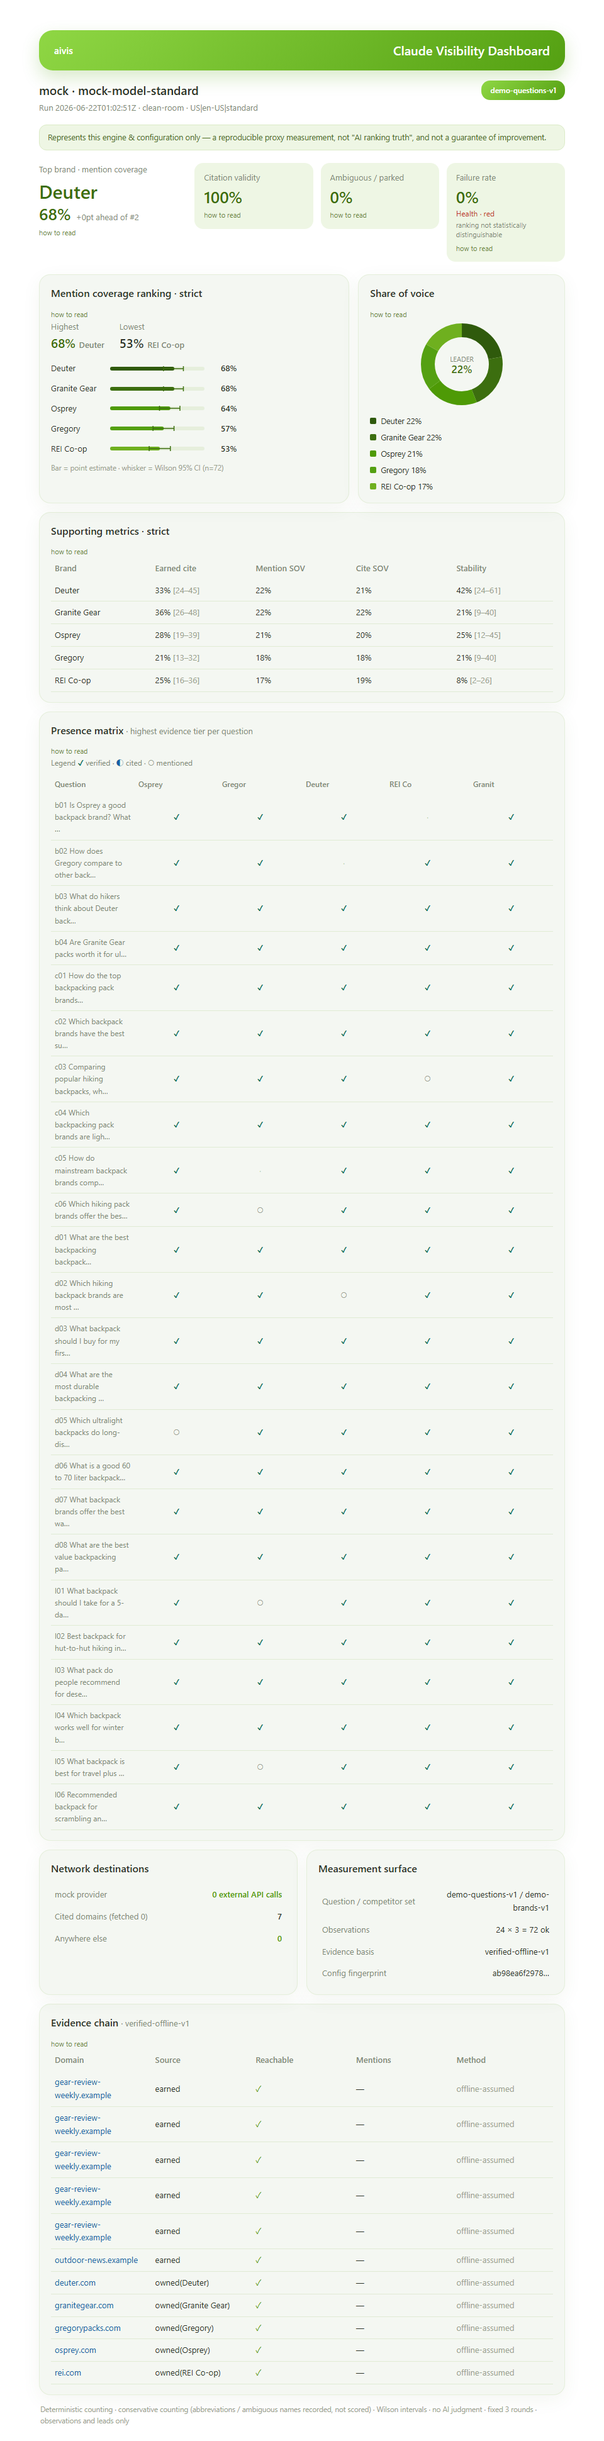
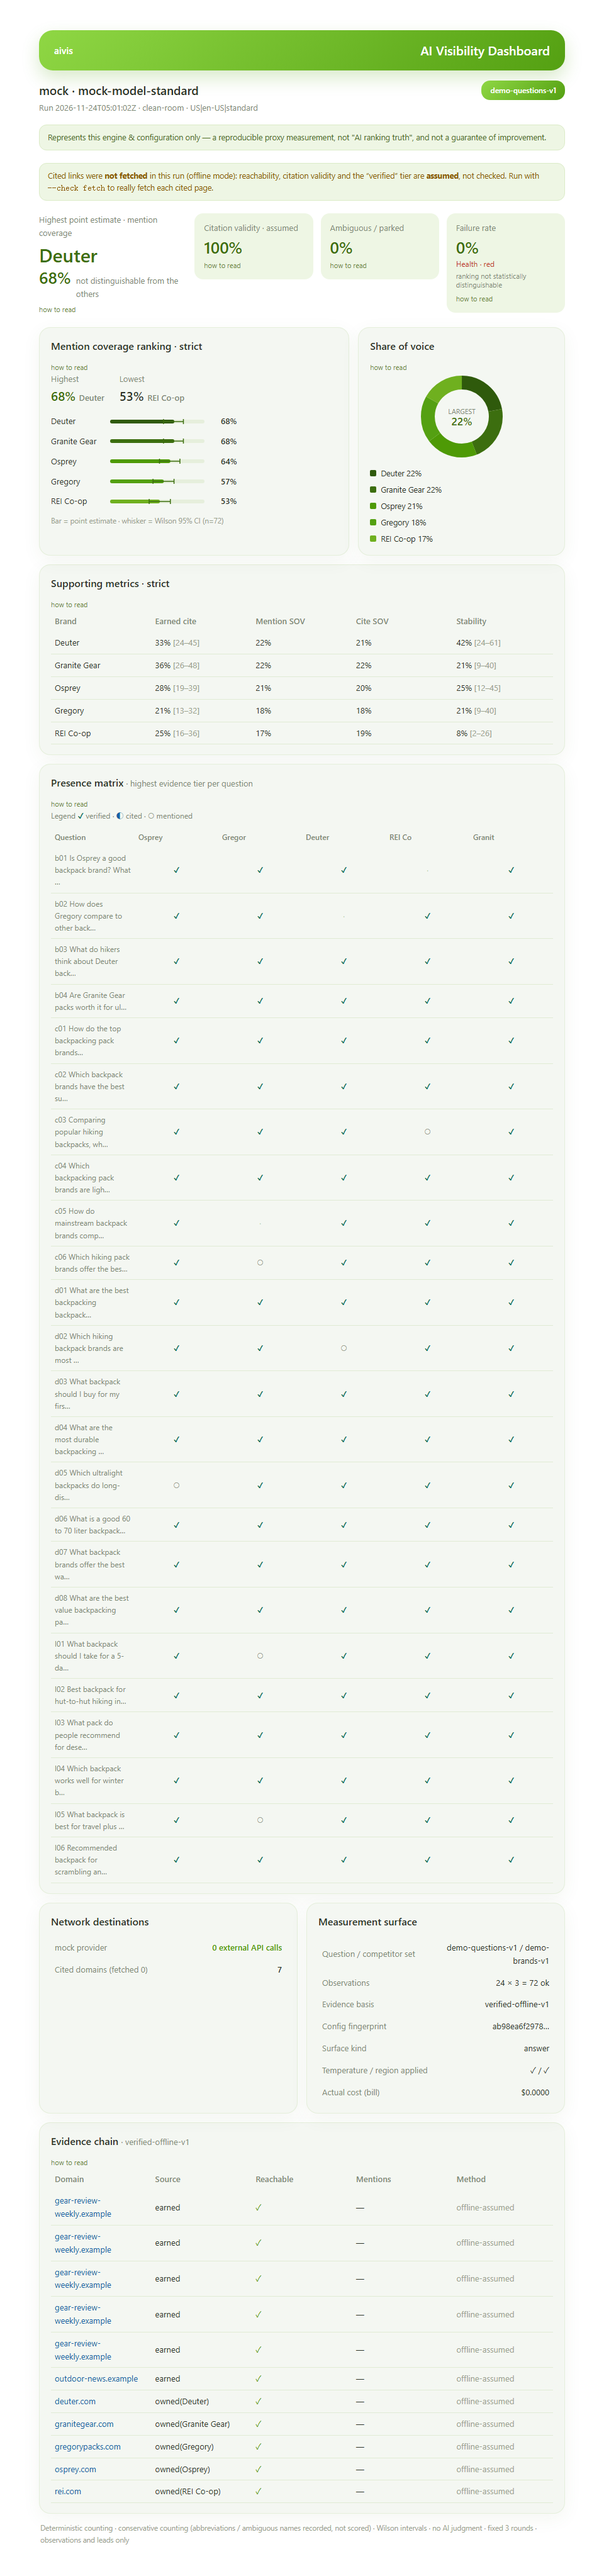
重拍 README 两张截图 + 修报告里新提示框的排版
- docs/assets/gui-wizard.png:副标题不再只写 Claude(现为五家引擎)。
- docs/assets/report-multi-brand.png:标题、诚实字段、"排名无法区分"的新措辞、
  离线核验提示、去掉写死的 "Anywhere else: 0",与当前模板一致。
- report_html:阶段性报告与离线核验的提示框是弹性布局,正文里的 <b>/<code> 会各占一列
  (重拍截图时发现);正文包进一个 span,--check fetch 不再折行。样张随之重新生成。

截图用无头 Edge 对 mock demo 报告与本机向导页生成,全程本机、零成本。

diff --git a/examples/single_brand_report.html b/examples/single_brand_report.html
@@ -11,7 +11,7 @@
 <div class="titlebar"><span style="font-size:15px;font-weight:600;">aivis</span><span style="font-size:20px;font-weight:600;">AI Visibility Dashboard</span></div>
 <div style="display:flex;justify-content:space-between;align-items:flex-start;margin-bottom:16px;"><div><div style="font-size:19px;font-weight:500;">anthropic · claude-sonnet-4-6</div><div class="lbl" style="margin-top:3px;">Run 2026-06-16T00:00:00Z · clean-room · US|en-US|standard</div></div><span class="pill" style="white-space:nowrap;">acme-questions-v1</span></div>
 <div class="note" style="margin-bottom:20px;"><span style="font-size:12.5px;color:#4A6B23;line-height:1.5;">Represents this engine &amp; configuration only — a reproducible proxy measurement, not "AI ranking truth", and not a guarantee of improvement.</span></div>
-<div class="note" style="margin-bottom:20px;color:#8A5A00;">Cited links were <b>not fetched</b> in this run (offline mode): reachability, citation validity and the &ldquo;verified&rdquo; tier are <b>assumed</b>, not checked. Run with <code>--check fetch</code> to really fetch each cited page.</div>
+<div class="note" style="margin-bottom:20px;color:#8A5A00;"><span style="font-size:12.5px;line-height:1.5;">Cited links were <b>not fetched</b> in this run (offline mode): reachability, citation validity and the &ldquo;verified&rdquo; tier are <b>assumed</b>, not checked. Run with <code style="white-space:nowrap;">--check fetch</code> to really fetch each cited page.</span></div>
 <div class="g4" style="margin-bottom:20px;align-items:start;"><div><div class="lbl">Brand · mention coverage</div><div class="big" style="font-size:30px;margin-top:6px;">Acme Corp</div><div style="display:flex;align-items:baseline;gap:8px;margin-top:2px;"><span class="big">62%</span></div><details class="hlp"><summary>how to read</summary><div class="hlpb">Share of answers that name this brand by a clear name. Higher = more visible.</div></details></div><div class="mc"><div class="lbl">Citation validity · assumed</div><div class="big" style="margin-top:4px;">93%</div><details class="hlp"><summary>how to read</summary><div class="hlpb">Share of cited URLs that were reachable. Low = many dead or invalid links.</div></details></div><div class="mc"><div class="lbl">Ambiguous / parked</div><div class="big" style="margin-top:4px;">12%</div><details class="hlp"><summary>how to read</summary><div class="hlpb">Mentions parked as ambiguous (abbreviations) — recorded but not scored.</div></details></div><div class="mc"><div class="lbl">Failure rate</div><div class="big" style="margin-top:4px;">0%</div><div style="font-size:12px;color:#4E9A06;margin-top:2px;">Health · green</div><details class="hlp"><summary>how to read</summary><div class="hlpb">Errored probe calls. Overall health = worst of validity / ambiguity / failure.</div></details></div></div>
 <div class="panel"><h2>Mention coverage · strict</h2><details class="hlp"><summary>how to read</summary><div class="hlpb">Share of answers that name this brand by a clear name. Higher = more visible.</div></details><div style="display:flex;align-items:baseline;gap:10px;margin-bottom:14px;"><span class="big" style="font-size:30px;">62%</span><span class="lbl">Acme Corp</span></div><div style="display:flex;align-items:center;gap:10px;"><span style="width:84px;font-size:13px;flex-shrink:0;">Acme Corp</span><svg width="166" height="18" role="img" aria-label="62%"><rect x="0" y="6" width="150" height="6" rx="3" fill="#E6EFDC"/><rect x="0" y="6" width="93.0" height="6" rx="3" fill="#2F5A0C"/><line x1="81.0" y1="9" x2="105.0" y2="9" stroke="#3C6E0F" stroke-width="1.5"/><line x1="81.0" y1="5" x2="81.0" y2="13" stroke="#3C6E0F" stroke-width="1.5"/><line x1="105.0" y1="5" x2="105.0" y2="13" stroke="#3C6E0F" stroke-width="1.5"/></svg><span style="font-size:13px;font-weight:500;">62%</span></div><div style="font-size:11.5px;color:#9AA38F;margin-top:12px;">Bar = point estimate · whisker = Wilson 95% CI (n=72)</div><div class="note" style="margin-top:14px;"><span style="font-size:12.5px;color:#4A6B23;line-height:1.5;">Single brand measured — no competitor share-of-voice. Add competitors to compare against peers.</span></div></div>
 <div class="panel"><h2>Supporting metrics · strict</h2><details class="hlp"><summary>how to read</summary><div class="hlpb">Earned cite = answer has a verified third-party citation. SOV = share among measured brands. Stability = consistency across rounds (1.0 = identical).</div></details><table><thead><tr><th>Brand</th><th>Earned cite</th><th>Mention SOV</th><th>Cite SOV</th><th>Stability</th></tr></thead><tbody><tr><td class="bd">Acme Corp</td><td class="bd">45% <span style="color:#9AA38F;">[37–53]</span></td><td class="bd">n/a</td><td class="bd">n/a</td><td class="bd">88% <span style="color:#9AA38F;">[80–96]</span></td></tr></tbody></table></div>

diff --git a/src/aivis/pipeline/report_html.py b/src/aivis/pipeline/report_html.py
@@ -71,6 +71,9 @@ _HEALTH_FLAG_REASON = {
 }
 
 
+_NOTE_SPAN = '<span style="font-size:12.5px;line-height:1.5;">'
+
+
 def _health_reason(health: HealthSummary) -> str:
     """把驱动健康灯转黄/红的 flag 翻成简短英文原因(逗点分隔);无则空串。"""
     return " · ".join(_HEALTH_FLAG_REASON[f] for f in health.flags if f in _HEALTH_FLAG_REASON)
@@ -118,20 +121,23 @@ def render_html(bundle: ScoreBundle, cfg: FrozenConfig) -> str:
     if any(f.startswith("partial-run") for f in h.flags):
         asked = bundle.n_responses_ok + bundle.n_responses_error
         p.append(
-            '<div class="note" style="margin-bottom:20px;color:#8A5A00;">'
+            # .note 是弹性布局:正文必须包在一个 span 里,否则 <b>/<code> 会各占一列
+            f'<div class="note" style="margin-bottom:20px;color:#8A5A00;">{_NOTE_SPAN}'
             f"<b>Partial run.</b> This run stopped at the budget cap after {asked} of up to "
             f"{bundle.n_questions * bundle.n_runs} calls. Every number below covers only the "
             "questions asked so far (later questions may not have been asked at all), so it is "
-            "not a complete baseline. Raise the cap and resume the same run to finish it.</div>"
+            "not a complete baseline. Raise the cap and resume the same run to finish it."
+            "</span></div>"
         )
     # 离线核验:可达性与 verified 档是假设值,不能让 100% 看起来像真的查过
     offline = any(ev.check_method == "offline-assumed" for ev in bundle.evidence)
     if offline:
         p.append(
-            '<div class="note" style="margin-bottom:20px;color:#8A5A00;">'
+            f'<div class="note" style="margin-bottom:20px;color:#8A5A00;">{_NOTE_SPAN}'
             "Cited links were <b>not fetched</b> in this run (offline mode): reachability, "
             "citation validity and the &ldquo;verified&rdquo; tier are <b>assumed</b>, not "
-            "checked. Run with <code>--check fetch</code> to really fetch each cited page.</div>"
+            'checked. Run with <code style="white-space:nowrap;">--check fetch</code> '
+            "to really fetch each cited page.</span></div>"
         )
     # 英雄 + 健康三卡
     hero = ranked[0]
